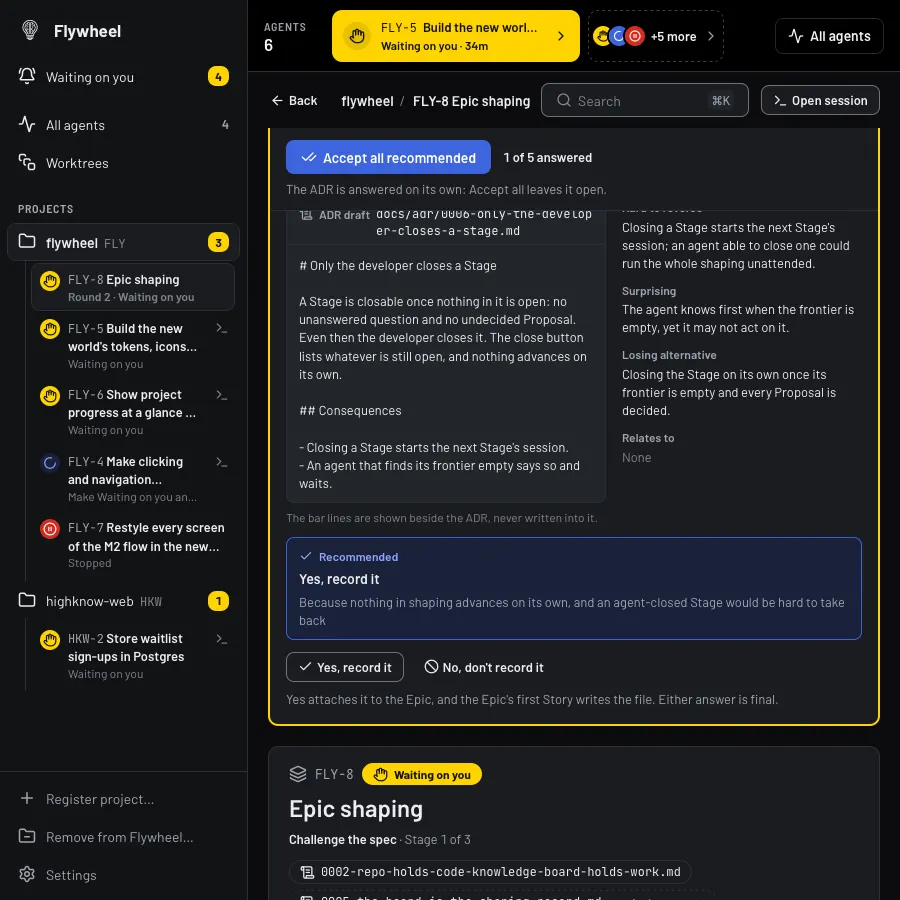
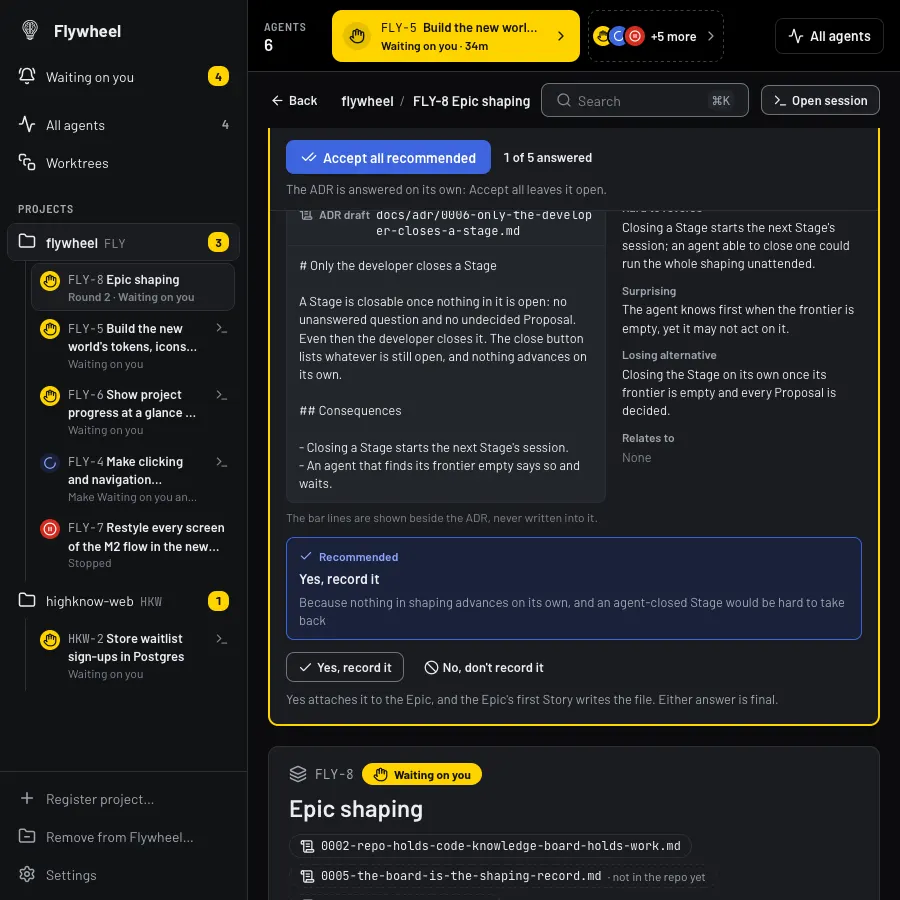
docs: re-shoot every shaping screen over #129's ADR chips; the Stage bar's screens turn the ADRs on explicitly and the switch resets before each screen

diff --git a/packages/desktop/src/test/critique/m2-flow.critique.browser.test.tsx b/packages/desktop/src/test/critique/m2-flow.critique.browser.test.tsx
@@ -111,6 +111,7 @@ describe.runIf(Boolean(SCHEME))("M2 flow screens", () => {
     resetUiState();
     queryClient.clear();
     setShapingSessionLive(true);
+    offerAdrsInShaping(false);
     installFixtureBackend();
   });
   afterEach(() => {
@@ -424,6 +425,7 @@ describe.runIf(Boolean(SCHEME))("M2 flow screens", () => {
   });
 
   it("38 Epic shaping: the Stage bar lists what keeps the Stage open (issue #126)", async () => {
+    offerAdrsInShaping(true);
     await boardReady();
     await click("Answer the Round on FLY-8");
     await screen.findByRole("list", { name: "Still open" });
@@ -431,6 +433,7 @@ describe.runIf(Boolean(SCHEME))("M2 flow screens", () => {
   });
 
   it("39 Epic shaping: nothing open, Close Stage is the next action (issue #126)", async () => {
+    offerAdrsInShaping(true);
     closableShaping();
     await boardReady();
     await click("Open FLY-8 Epic shaping and its Rounds");
@@ -439,6 +442,7 @@ describe.runIf(Boolean(SCHEME))("M2 flow screens", () => {
   });
 
   it("40 Epic shaping: confirming Close Stage (issue #126)", async () => {
+    offerAdrsInShaping(true);
     closableShaping();
     await boardReady();
     await click("Open FLY-8 Epic shaping and its Rounds");
@@ -448,6 +452,7 @@ describe.runIf(Boolean(SCHEME))("M2 flow screens", () => {
   });
 
   it("42 Epic shaping: the Slice Stage just opened, the Challenge Rounds below it (issue #126)", async () => {
+    offerAdrsInShaping(true);
     closableShaping({ closed: true });
     await boardReady();
     await click("Open FLY-8 Epic shaping and its Rounds");
@@ -456,6 +461,7 @@ describe.runIf(Boolean(SCHEME))("M2 flow screens", () => {
   });
 
   it("41 Epic shaping at the window's minimum width: the Stage bar with open items (issue #126)", async () => {
+    offerAdrsInShaping(true);
     await page.viewport(900, 900);
     try {
       await boardReady();
